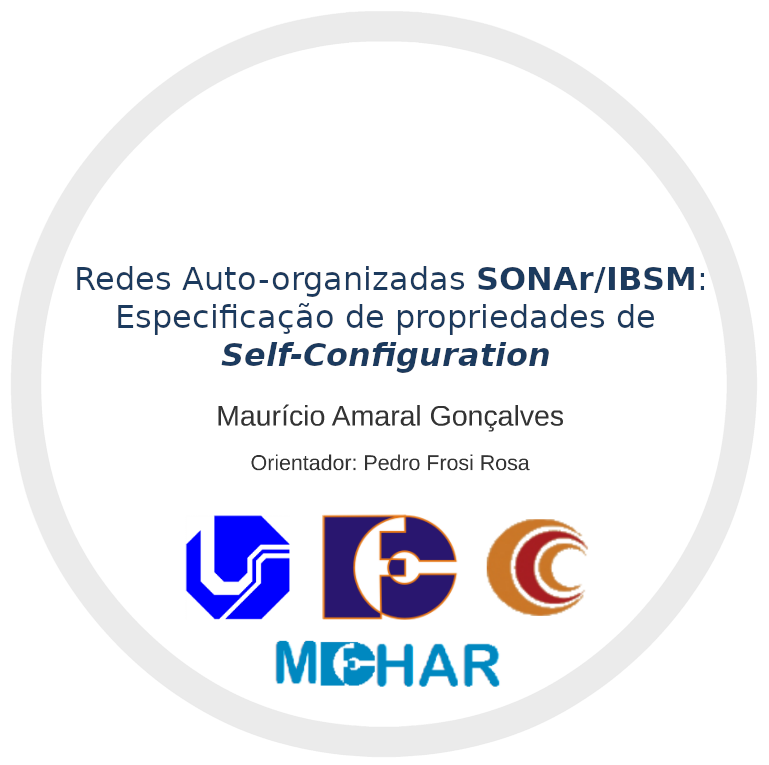
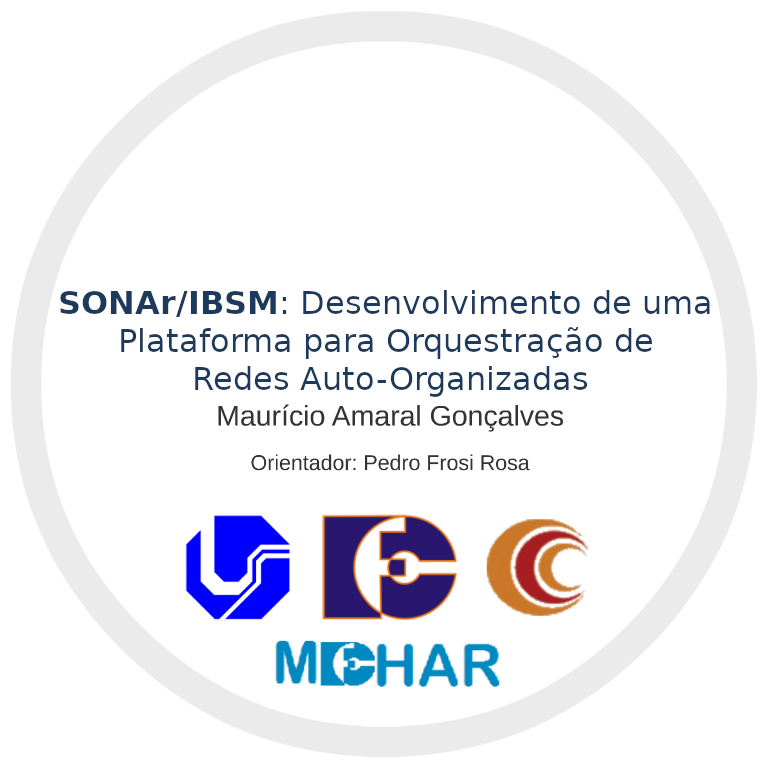
Correção do título e dos ids

Changed region(s): [[0.0624, 0.3307, 0.9363, 0.5111]]

diff --git a/index.html b/index.html
@@ -42,7 +42,7 @@
                 </ol> 
             </div>
 
-            <div id="c1-arpa" data-x="-1500" data-y="-700" class="slide step">
+            <div id="c1-change" data-x="-1500" data-y="-700" class="slide step">
                 <h1>1 - Introdução</h1>
                 <div style="height:80%; text-align:center; margin-top:20px">
                     <h2 style="text-align:left;">As aplicações da rede mudaram.</h3><br/>
@@ -64,7 +64,7 @@
                 </div>
             </div>
 
-            <div id="c1-proto" data-x="0" data-y="-700" class="slide step">
+            <div id="c1-grow" data-x="0" data-y="-700" class="slide step">
                 <div style="height:80%; text-align:center; margin-top:20px">
                     <h2 style="text-align:left;">O número de nós na redes cresceu e novos requisitos surgiram.</h3><br/>
                     <table style="text-align: center;">
@@ -83,7 +83,7 @@
                 </div>
             </div>
 
-            <div id="c1-phi" data-x="1500" data-y="-700" class="slide step">
+            <div id="c1-auto" data-x="1500" data-y="-700" class="slide step">
                 <h2>Gerenciamento de Rede e Computação Autônoma</h2>
                 <div style="height:80%; text-align:center; margin-top:20px">
                     <table style="text-align: center;">
@@ -102,7 +102,7 @@
                 </div>
             </div>
 
-            <div id="c1-app" data-x="3000" data-y="-700" class="slide step">
+            <div id="c1-motiv" data-x="3000" data-y="-700" class="slide step">
                 <h2>Motivações e Justificativas</h2>
                  <ul class="content" style="margin-top:20px; list-style: initial; line-height: 60px;">
                     <li class="item1"><h3>O <b>Gerenciamento de Rede</b> é fundamental para manter a rede <b>operacional</b>;</h3></li>
@@ -115,12 +115,12 @@
                 </ol> 
             </div>
 
-            <div id="c1-req" data-x="4500" data-y="-700" class="slide step">
+            <div id="c1-hipotesis" data-x="4500" data-y="-700" class="slide step">
                 <h2>Hipótese</h2>
                 <q class="hipostesis">Assume-se que a provisão da propriedade de <b>auto-configuração</b> é fundamental para a <b>viabilização</b> das <b>redes modernas</b> pois <b>flexibiliza</b> a implantação de <b>comportamentos</b> na rede, torna o <b>aprovisionamento</b> de serviços mais <b>dinâmico</b> e diminui a <b>complexidade</b> das <b>operações</b> de inicialização e extensão da infraestrutura.</q>
             </div>
 
-            <div id="c1-model" data-x="6000" data-y="-700" class="slide step">
+            <div id="c1-objetivos" data-x="6000" data-y="-700" class="slide step">
                 <h2>Objetivos</h2>
                 <h4 style="margin-top: 20px;">Especificar a <b>arquitetura</b> de uma plataforma de <b>gerência</b> para redes <b>auto-organizáveis</b> com foco nas operações de <b>inicialização</b> da rede, no <b><i>plug-and-play</i></b> de dispositivos e no <b>aprovisionamento</b> de serviços. Para isso é necessário:</h4>
                  <ul class="content" style="margin-top:20px; list-style: initial; line-height: 40px;">
@@ -130,7 +130,7 @@
                 </ul>
             </div>
 
-            <div id="c2-hist" class="step slide" data-x="-1500" data-y="100">
+            <div id="c2-nm-int" class="step slide" data-x="-1500" data-y="100">
                 <h1>2 - Fundamentação Teórica e Contextualização da Pesquisa</h1>
                 <ul class="content" style="margin-top:20px; list-style: initial; line-height: 40px;">
                     <h2>Gerenciamento de Rede</h2>
@@ -140,7 +140,7 @@
                 </ol> 
             </div>
 
-            <div id="c2-interevol" class="step slide" data-x="0" data-y="100">
+            <div id="c2-nm-def" class="step slide" data-x="0" data-y="100">
                 <h2>O Gerenciamento de Rede é:</h2>
                     <ul class="content" style="margin-top:60px; list-style: initial; line-height: 60px;">
                         <li class="item1"><h3>Segundo <b><i>Hegering</i></b>: <i>"o conjunto de medidas que garantem a eficiência e efetividade das operações de sistema conectados e recurso de rede em harmonia com objetivos corporativos"</i>.</h3></li>
